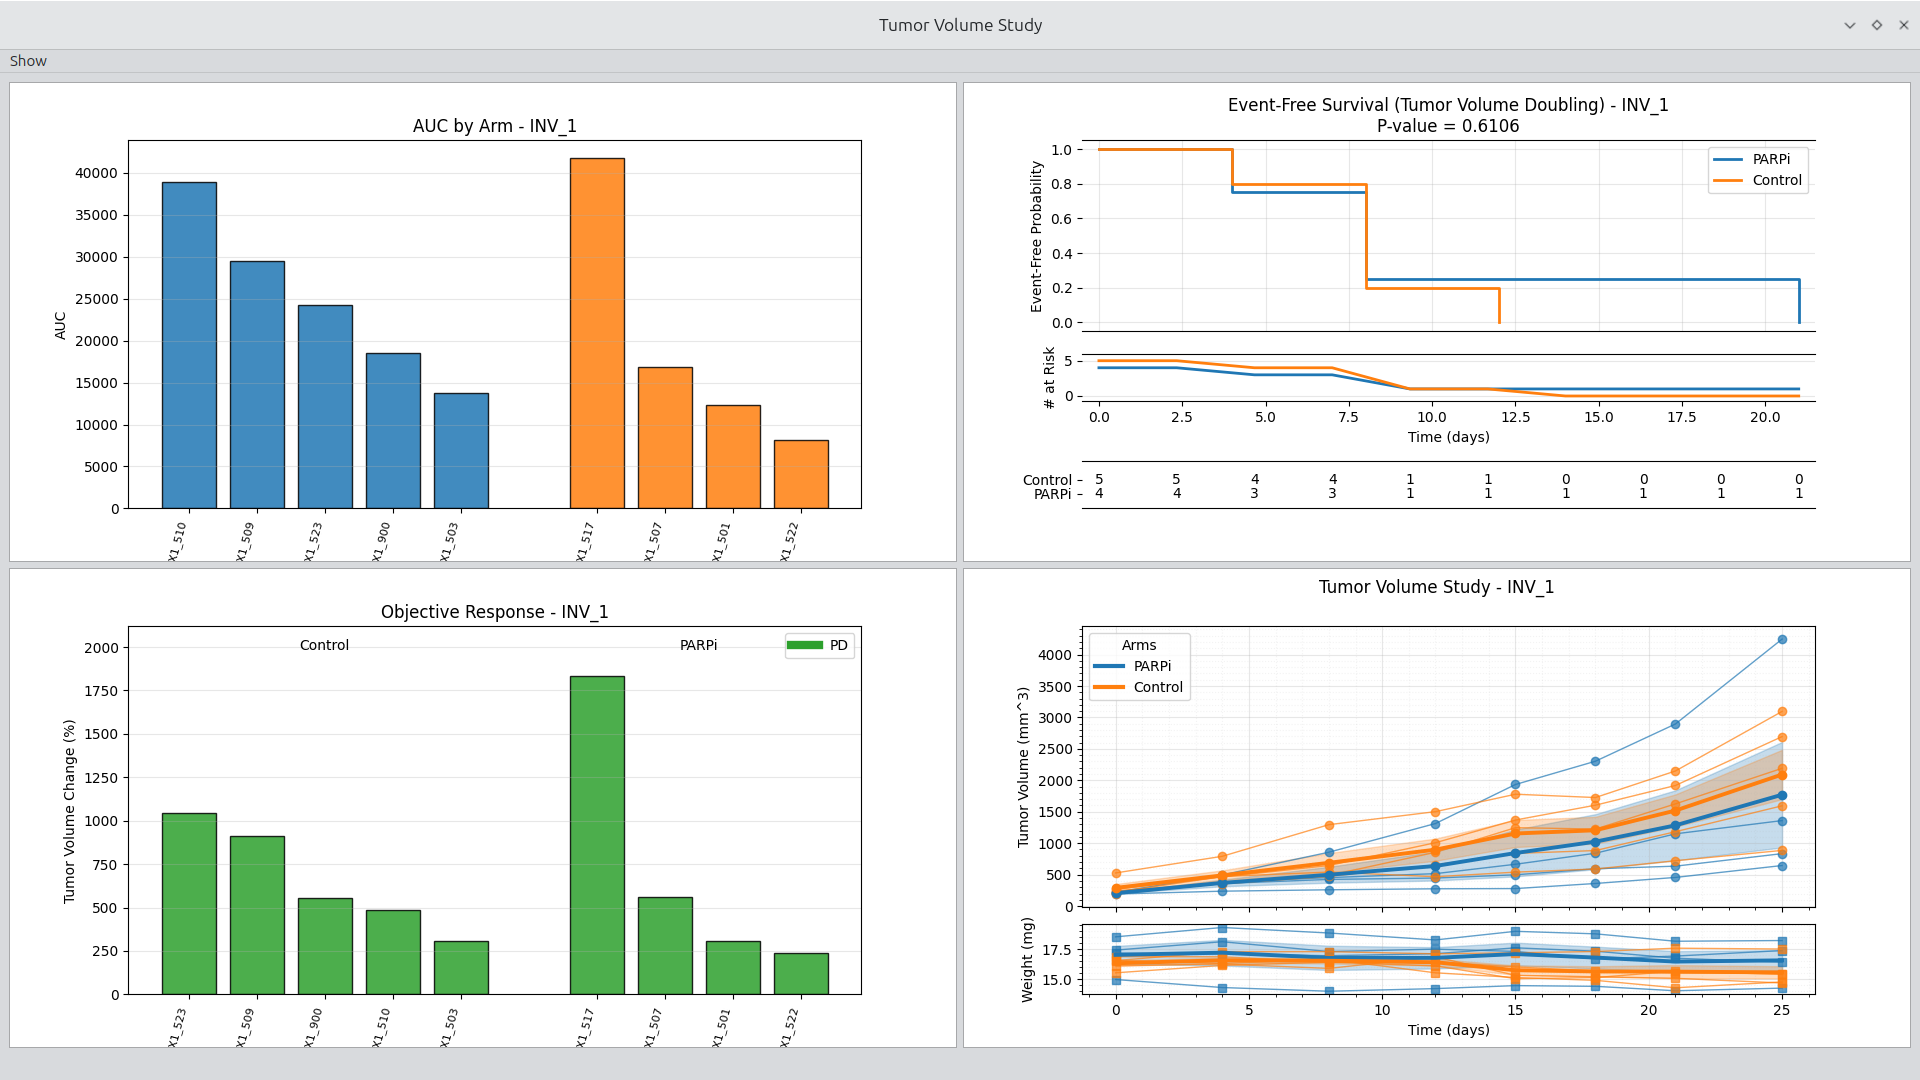
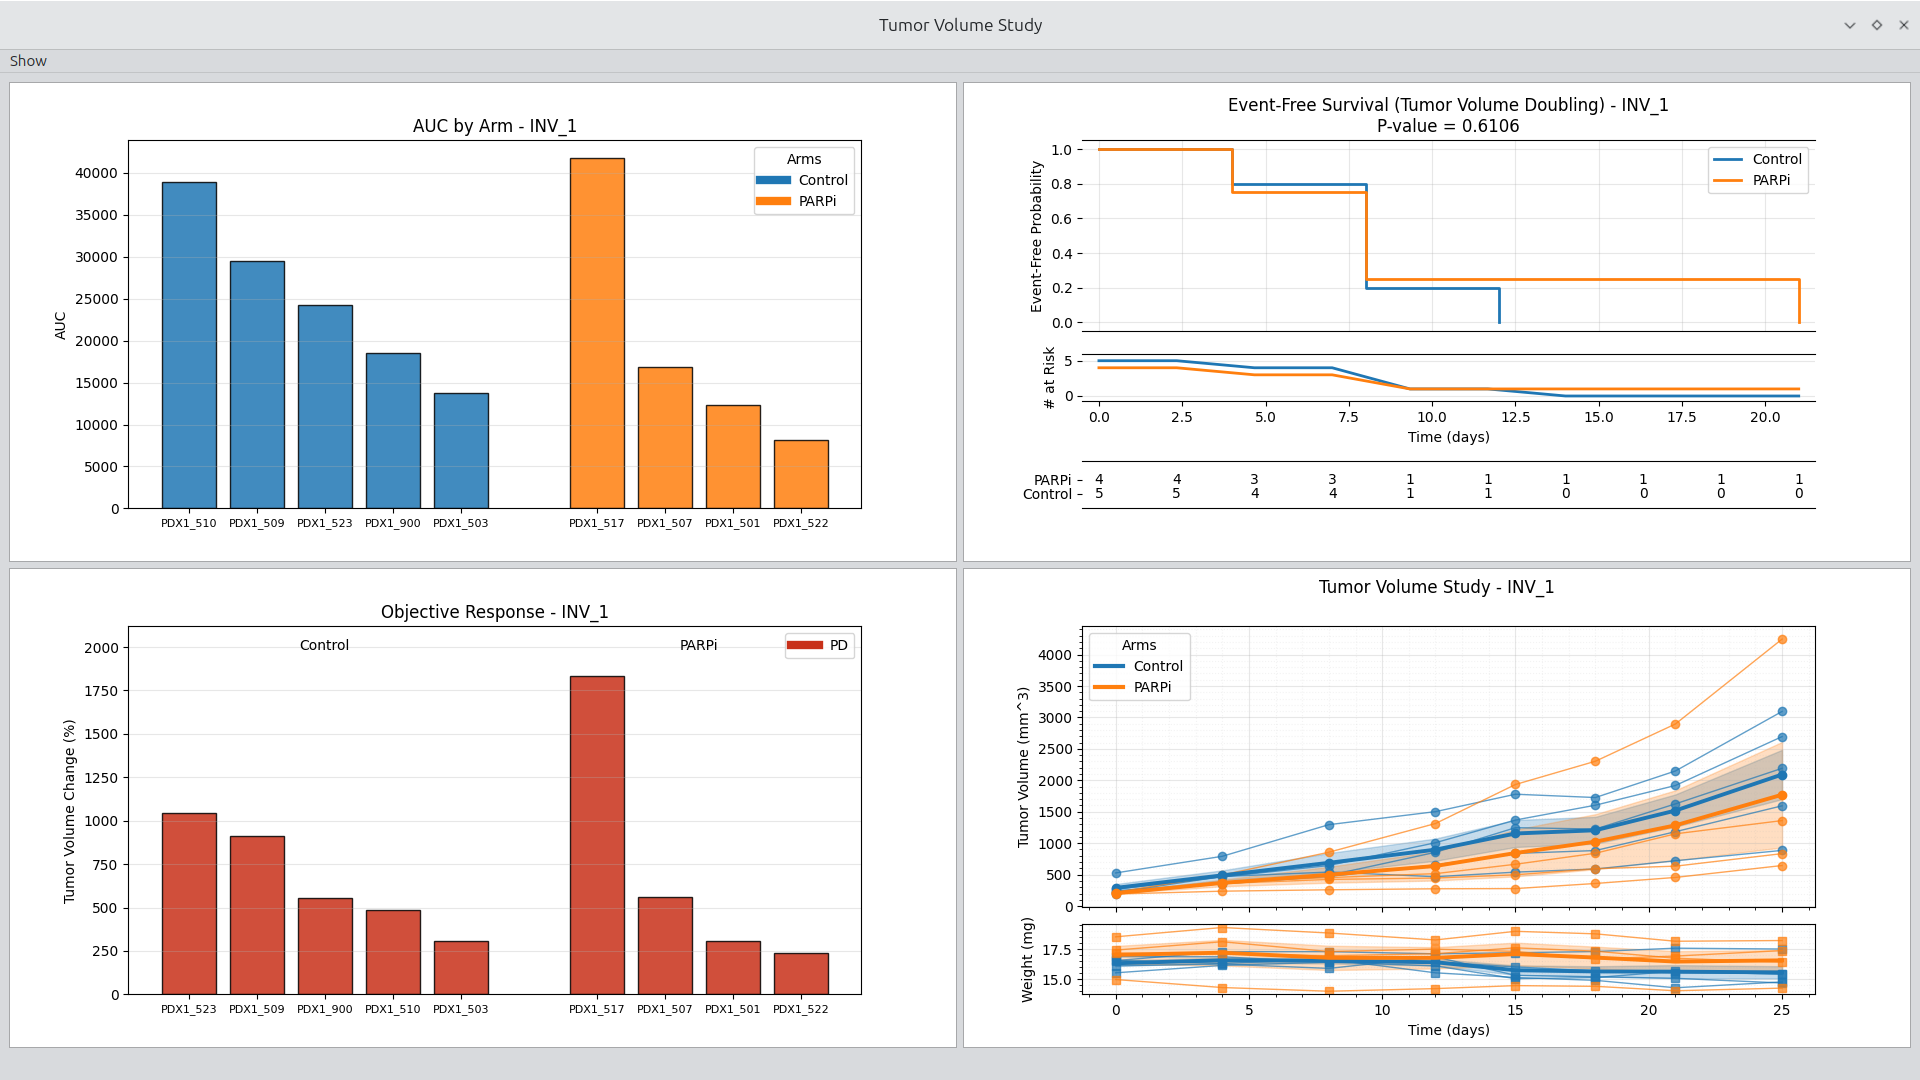
Updated readme and figures. Need to check color generation for objective response plot.

diff --git a/src/TumorVolumeFileViewClass.py b/src/TumorVolumeFileViewClass.py
@@ -244,8 +244,3 @@ class TumorVolumeFileWindow(QMainWindow):
 
         # Resize columns to fit content
         table.resizeColumnsToContents()
-
-
-
-
-

diff --git a/src/TumorVolumeClass.py b/src/TumorVolumeClass.py
@@ -11,7 +11,6 @@
 from narwhals import Boolean
 
 # To Do
-#TODO: Enable matplotlib figure garbage collection
 
 # Import modules
 

diff --git a/README.md b/README.md
@@ -15,50 +15,23 @@ This repository is under active development. The user-facing viewers are the mos
 
 ## What This Tool Is For
 
+The primary goals of the interface is to standardize and excellerate the generation of publication quality figures directly from the interface. Right clicking on a figure launches a diaglog box that allows figure configutration, copying the figure, and saving the figure. figure widgth, length, and dpi are easily set. 
+
 Tumor Volumetrics is built for scientists and analysts who:
 - Work with longitudinal tumor volume data in CSV form
 - Need to rapidly explore experiments and studies
-- Want consistent, publication-ready tumor volume plots
-- Prefer interactive workflows over ad hoc scripts
 
 The goal is to remove friction from common tasks like:
-- Loading and inspecting tumor volume datasets
-- Navigating experiments, studies, and arms
-- Generating standard plots with consistent styling
-- Iterating quickly during study review and interpretation
+- Loading, inspecting, and plotting tumor volume datasets
+- Automatically applying styles across plots which sets up the infastructure for defining custom plot configurations.
+
 
 --
 
-Main User Interfaces
-Tumor Volume Experiment Viewer
+## Main User Interfaces
+The primary goal of the interfaces is to make common tumor figures quickly aviallbe allowing the user to move quickly to reviewinhg data. Currently, the interface supports experiment and study centrics views of the data.
 
-The Experiment Viewer is optimized for cross-study and cross-arm exploration within an experiment. It allows you to quickly configure and generate standard tumor volume plots with minimal setup.
-
-<p align="center"> <img src="src/media/tv_view.png" /><br> <b>Figure 1.</b> Tumor Volume Experiment Viewer. </p> 
-<p align="center"> <img src="src/media/tv_view_with_configuration_options.png" /><br> <b>Figure 2.</b> Experiment Viewer with configuration options shown. </p>
-
-Key capabilities:
-- Select experiment, study, and arm combinations
-- Generate spider plots, averages, and other standard views
-- Adjust plotting options interactively
-- Rapidly iterate on figure configuration without code changes
-
-This viewer is intended for experiment-level review and comparison.
-
-### Tumor Volume Study Viewer
-
-The Study Viewer focuses on **deep inspection of a single study**. It supports arm-level and subject-level exploration and is optimized for understanding response patterns and variability.
-
-<p align="center"> <img src="src/media/tumor_volume_study_viewer.png" /><br> <b>Figure 3.</b> Tumor Volume Study Viewer. </p> 
-<p align="center"> <img src="src/media/tumor_volume_study_viewer_with_options.png" /><br> <b>Figure 4.</b> Study Viewer with option settings shown. </p>
-
-Key capabilities:
-- Explore arms and individual time series
-- Generate standard study-level plots
-- Configure display and grouping options interactively
-- Support common review patterns used in study evaluation
-
-This viewer is intended for ** study-level analysis and interpretation **.
+<p align="center"> <img src="src/media/tumor_volume_study_treatment_effective_example.png" /><br> <b>Figure 1.</b> Study viewer with effective treatment example shown. Viewer configuration and plottingg style options are shown on the upper right. Options available for the objective response plot  </p>
 
 
 ## File Loading and Grouping
@@ -91,14 +64,40 @@ Selecting an item displays the corresponding rows from the underlying CSV. This 
 
 <p align="center"> <img src="src/media/tumor_voumetrics_file_screen.png" /><br> <b>Figure 6.</b> File selection and inspection interface. </p>
 
-## Example Figures
+## Main User Interfaces
+The primary goal of the interfaces is to make common tumor figures quickly aviallbe allowing the user to move quickly to reviewinhg data. Currently, the interface supports experiment and study centrics views of the data.
 
-The application currently supports and is optimized for generating common tumor volume visualizations.
+### Tumor Volume Experiment Viewer
 
-<p align="center"> <img src="src/media/spider_with_weights.png" /><br> <b>Figure 7.</b> Tumor volume spider plots with weights. </p> 
-<p align="center"> <img src="src/media/tumor_volume_average_with_std.png" /><br> <b>Figure 8.</b> Average tumor volume curves with standard deviation. </p> <p align="center"> <img src="src/media/kaplan_meier_with_at_risk_plot_table.png" /><br> <b>Figure 9.</b> Event-free Kaplan–Meier curve with at-risk table. </p> <p align="center"> <img src="src/media/tumor_volume_change_as_objective_response.png" /><br> <b>Figure 10.</b> Change in tumor volume plotted as objective response. </p>
+The Experiment Viewer is optimized for cross-study and cross-arm exploration within an experiment. It allows you to quickly configure and generate standard tumor volume plots with minimal setup.
 
-The intent is to make these figures one or two clicks away once data is loaded and grouped.
+<p align="center"> <img src="src/media/tumor_volume_experiment_view.png" /><br> <b>Figure 1.</b> Tumor Volume Experiment Viewer. </p> 
+<p align="center"> <img src="src/media/tumor_volume_experiment_view_wiht_options.png" /><br> <b>Figure 2.</b> Experiment Viewer with configuration options shown. </p>
+
+Key capabilities:
+- Select experiment, study, and arm combinations
+- Generate spider plots, averages, and other standard views
+- Adjust plotting options interactively
+- Rapidly iterate on figure configuration without code changes
+
+This viewer is intended for experiment-level review and comparison.
+
+### Tumor Volume Study Viewer
+
+The Study Viewer focuses on **deep inspection of a single study**. It supports arm-level and subject-level exploration and is optimized for understanding response patterns and variability.
+
+<p align="center"> <img src="src/media/tumor_volume_study_viewer.png" /><br> <b>Figure 3.</b> Tumor Volume Study Viewer. </p> 
+<p align="center"> <img src="src/media/tumor_volume_study_viewer_with_options.png" /><br> <b>Figure 4.</b> Study Viewer with option settings shown. </p>
+
+Key capabilities:
+- Explore arms and individual time series
+- Generate standard study-level plots
+- Configure display and grouping options interactively
+- Support common review patterns used in study evaluation
+
+This viewer is intended for ** study-level analysis and interpretation **.
+
+
 
 ## Design Philosophy
 
@@ -126,10 +125,7 @@ If you are interested in the class structure, see the [Tumor Volume Class Read M
 
 
 ## Features in Progress
-- Expanded configuration options in both viewers
 - Enhanced CSV validation and QC tooling
-- Additional arm- and experiment-level plot types 
-- Improved export workflows for figures 
 - Richer XML metadata support
 
 ## Roadmap
@@ -137,7 +133,6 @@ If you are interested in the class structure, see the [Tumor Volume Class Read M
 The long-term goal is a comprehensive PySide6 application that supports:
 
 Data loading and QC
-- Interactive experiment and study exploration
 - Standard preclinical oncology analyses
 - Rapid generation of publication-quality figures
 - Simple extension points for advanced or lab-specific methods
